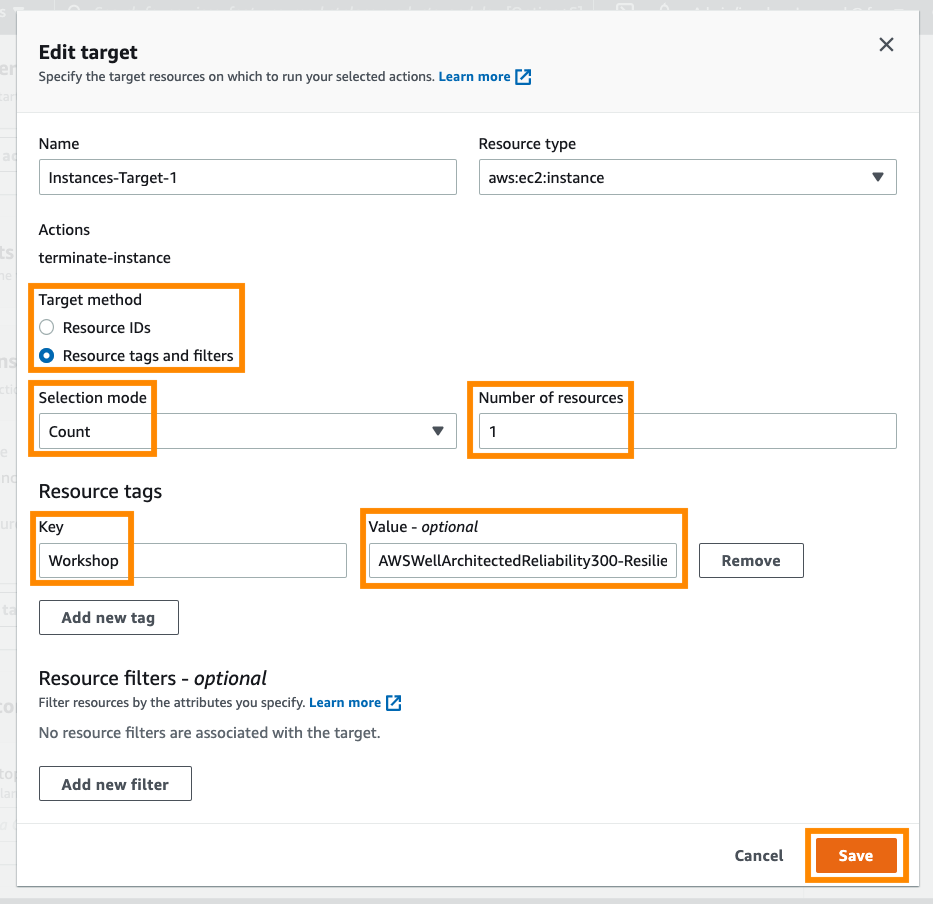
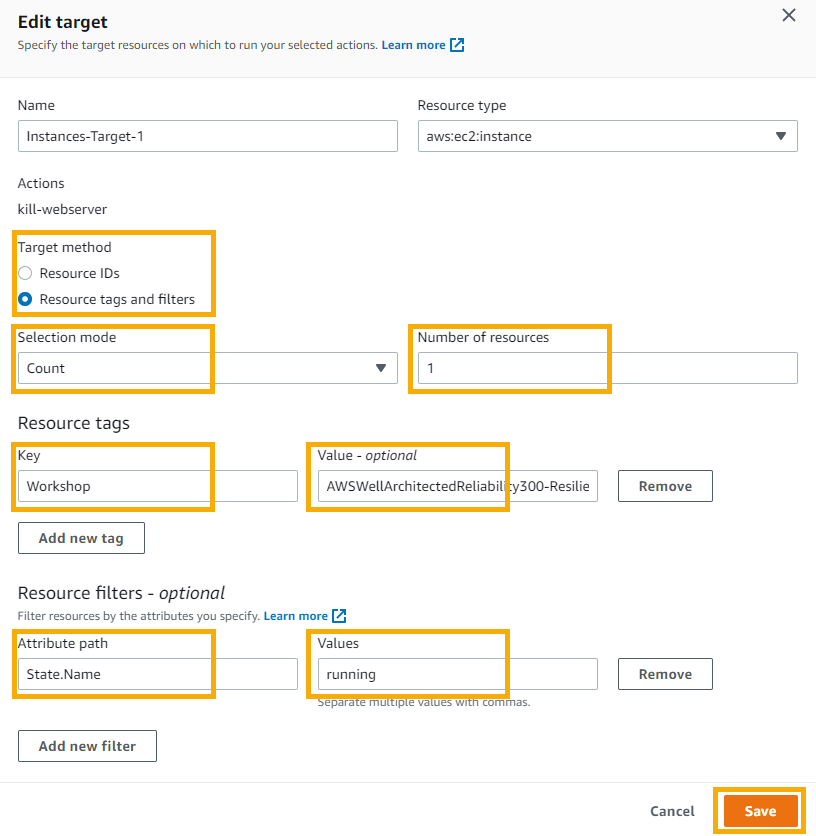
REL300-Chaos-update steps and images for FIS app failure

diff --git a/content/Reliability/300_Labs/300_Testing_for_Resiliency_of_EC2_RDS_and_S3/6_failure_injection_app.md b/content/Reliability/300_Labs/300_Testing_for_Resiliency_of_EC2_RDS_and_S3/6_failure_injection_app.md
@@ -47,14 +47,16 @@ In [Chaos Engineering](https://principlesofchaos.org/) we always start with a **
 7. Under **Target method**, select **Resource tags and filters**. Select **Count** for **Selection mode** and enter `1` under **Number of resources**. This ensures that FIS will only kill the web server on one instance.
 
 8. Scroll down to **Resource tags** and click **Add new tag**. Enter `Workshop` for **Key** and `AWSWellArchitectedReliability300-ResiliencyofEC2RDSandS3` for **Value**. These are the same tags that are on the EC2 instances used in this lab.
+   
+9. For **Resource filters** click **Add new filter**. Enter `State.Name` for **Attribute path** and `running` for **Values**. This ensures FIS targets a running instance. Click **Save**.
 
     ![SelectTargetEC2](/Reliability/300_Testing_for_Resiliency_of_EC2_RDS_and_S3/Images/SelectTargetEC2.png?classes=lab_picture_auto)
 
-9.  You can choose to stop running an experiment when certain thresholds are met, in this case, using CloudWatch Alarms under **Stop condition**. For this lab, you can leave this blank.
+10. You can choose to stop running an experiment when certain thresholds are met, in this case, using CloudWatch Alarms under **Stop condition**. For this lab, you can leave this blank.
 
-10. Click **Create experiment template**.
+11. Click **Create experiment template**.
 
-11. In the warning pop-up, confirm that you want to create the experiment template without a stop condition by entering `create` in the text box. Click **Create experiment template**.
+12. In the warning pop-up, confirm that you want to create the experiment template without a stop condition by entering `create` in the text box. Click **Create experiment template**.
 
     ![CreateTemplate](/Reliability/300_Testing_for_Resiliency_of_EC2_RDS_and_S3/Images/CreateTemplate.png?classes=lab_picture_auto)
 
